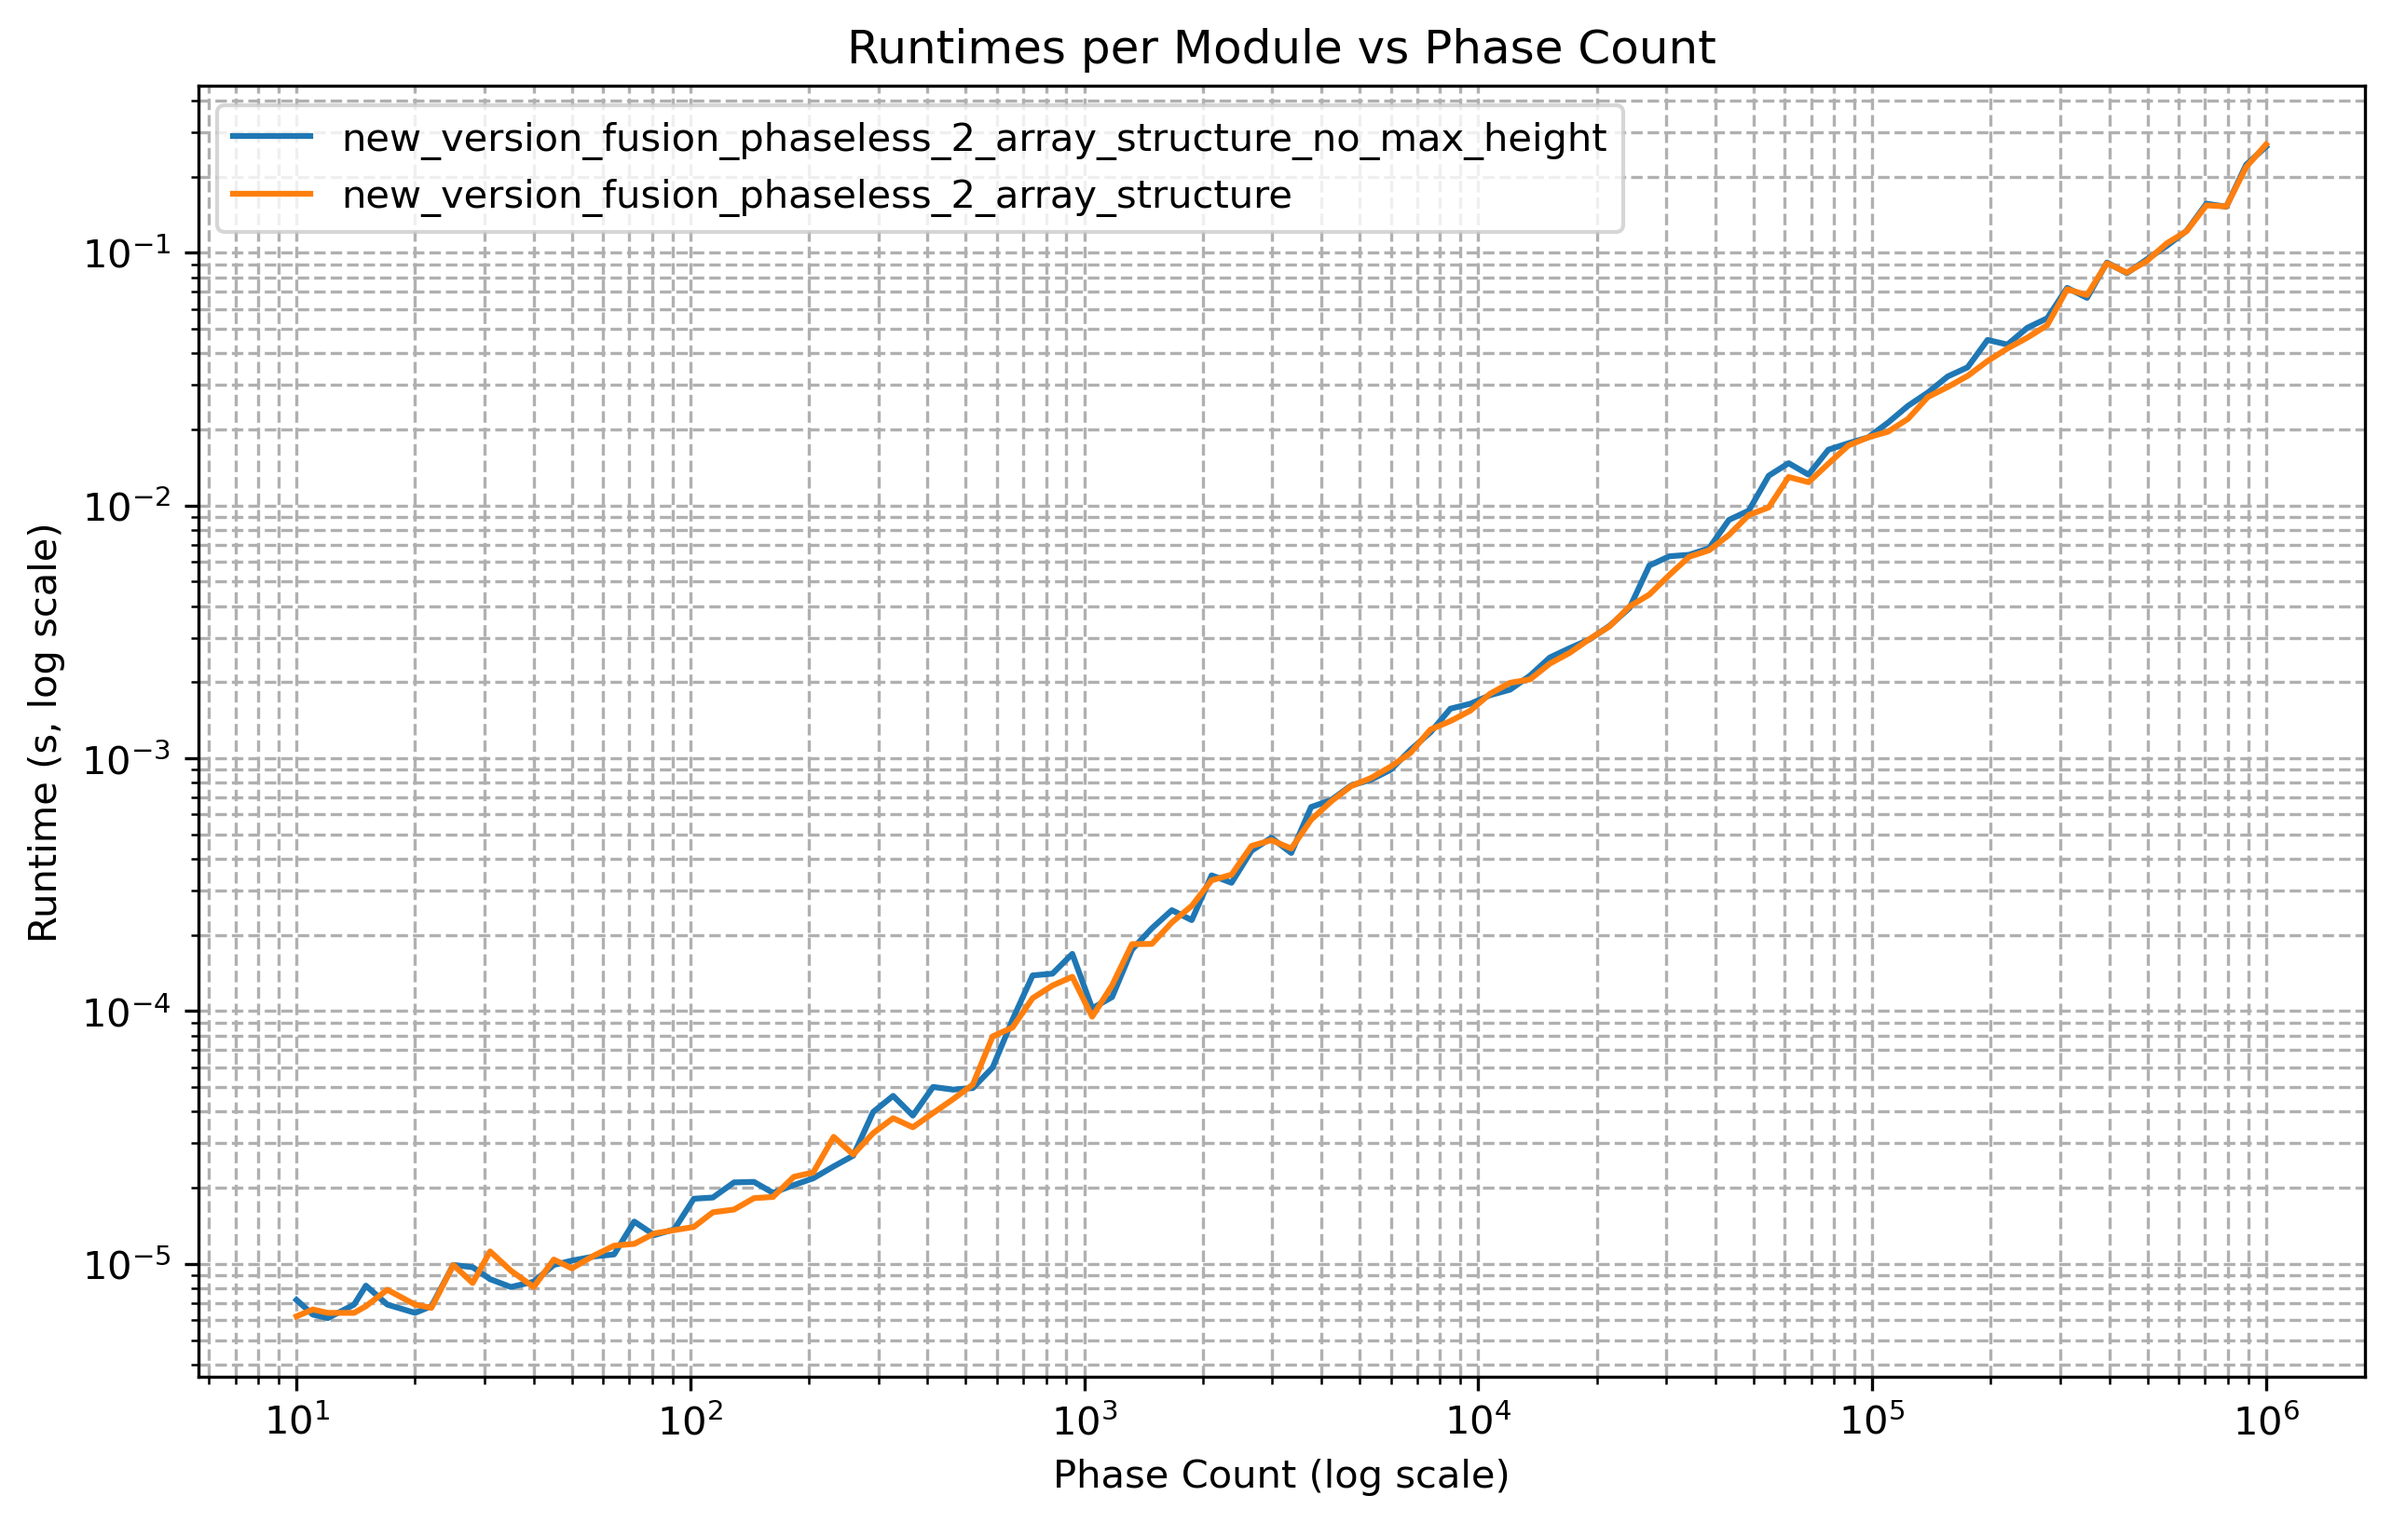
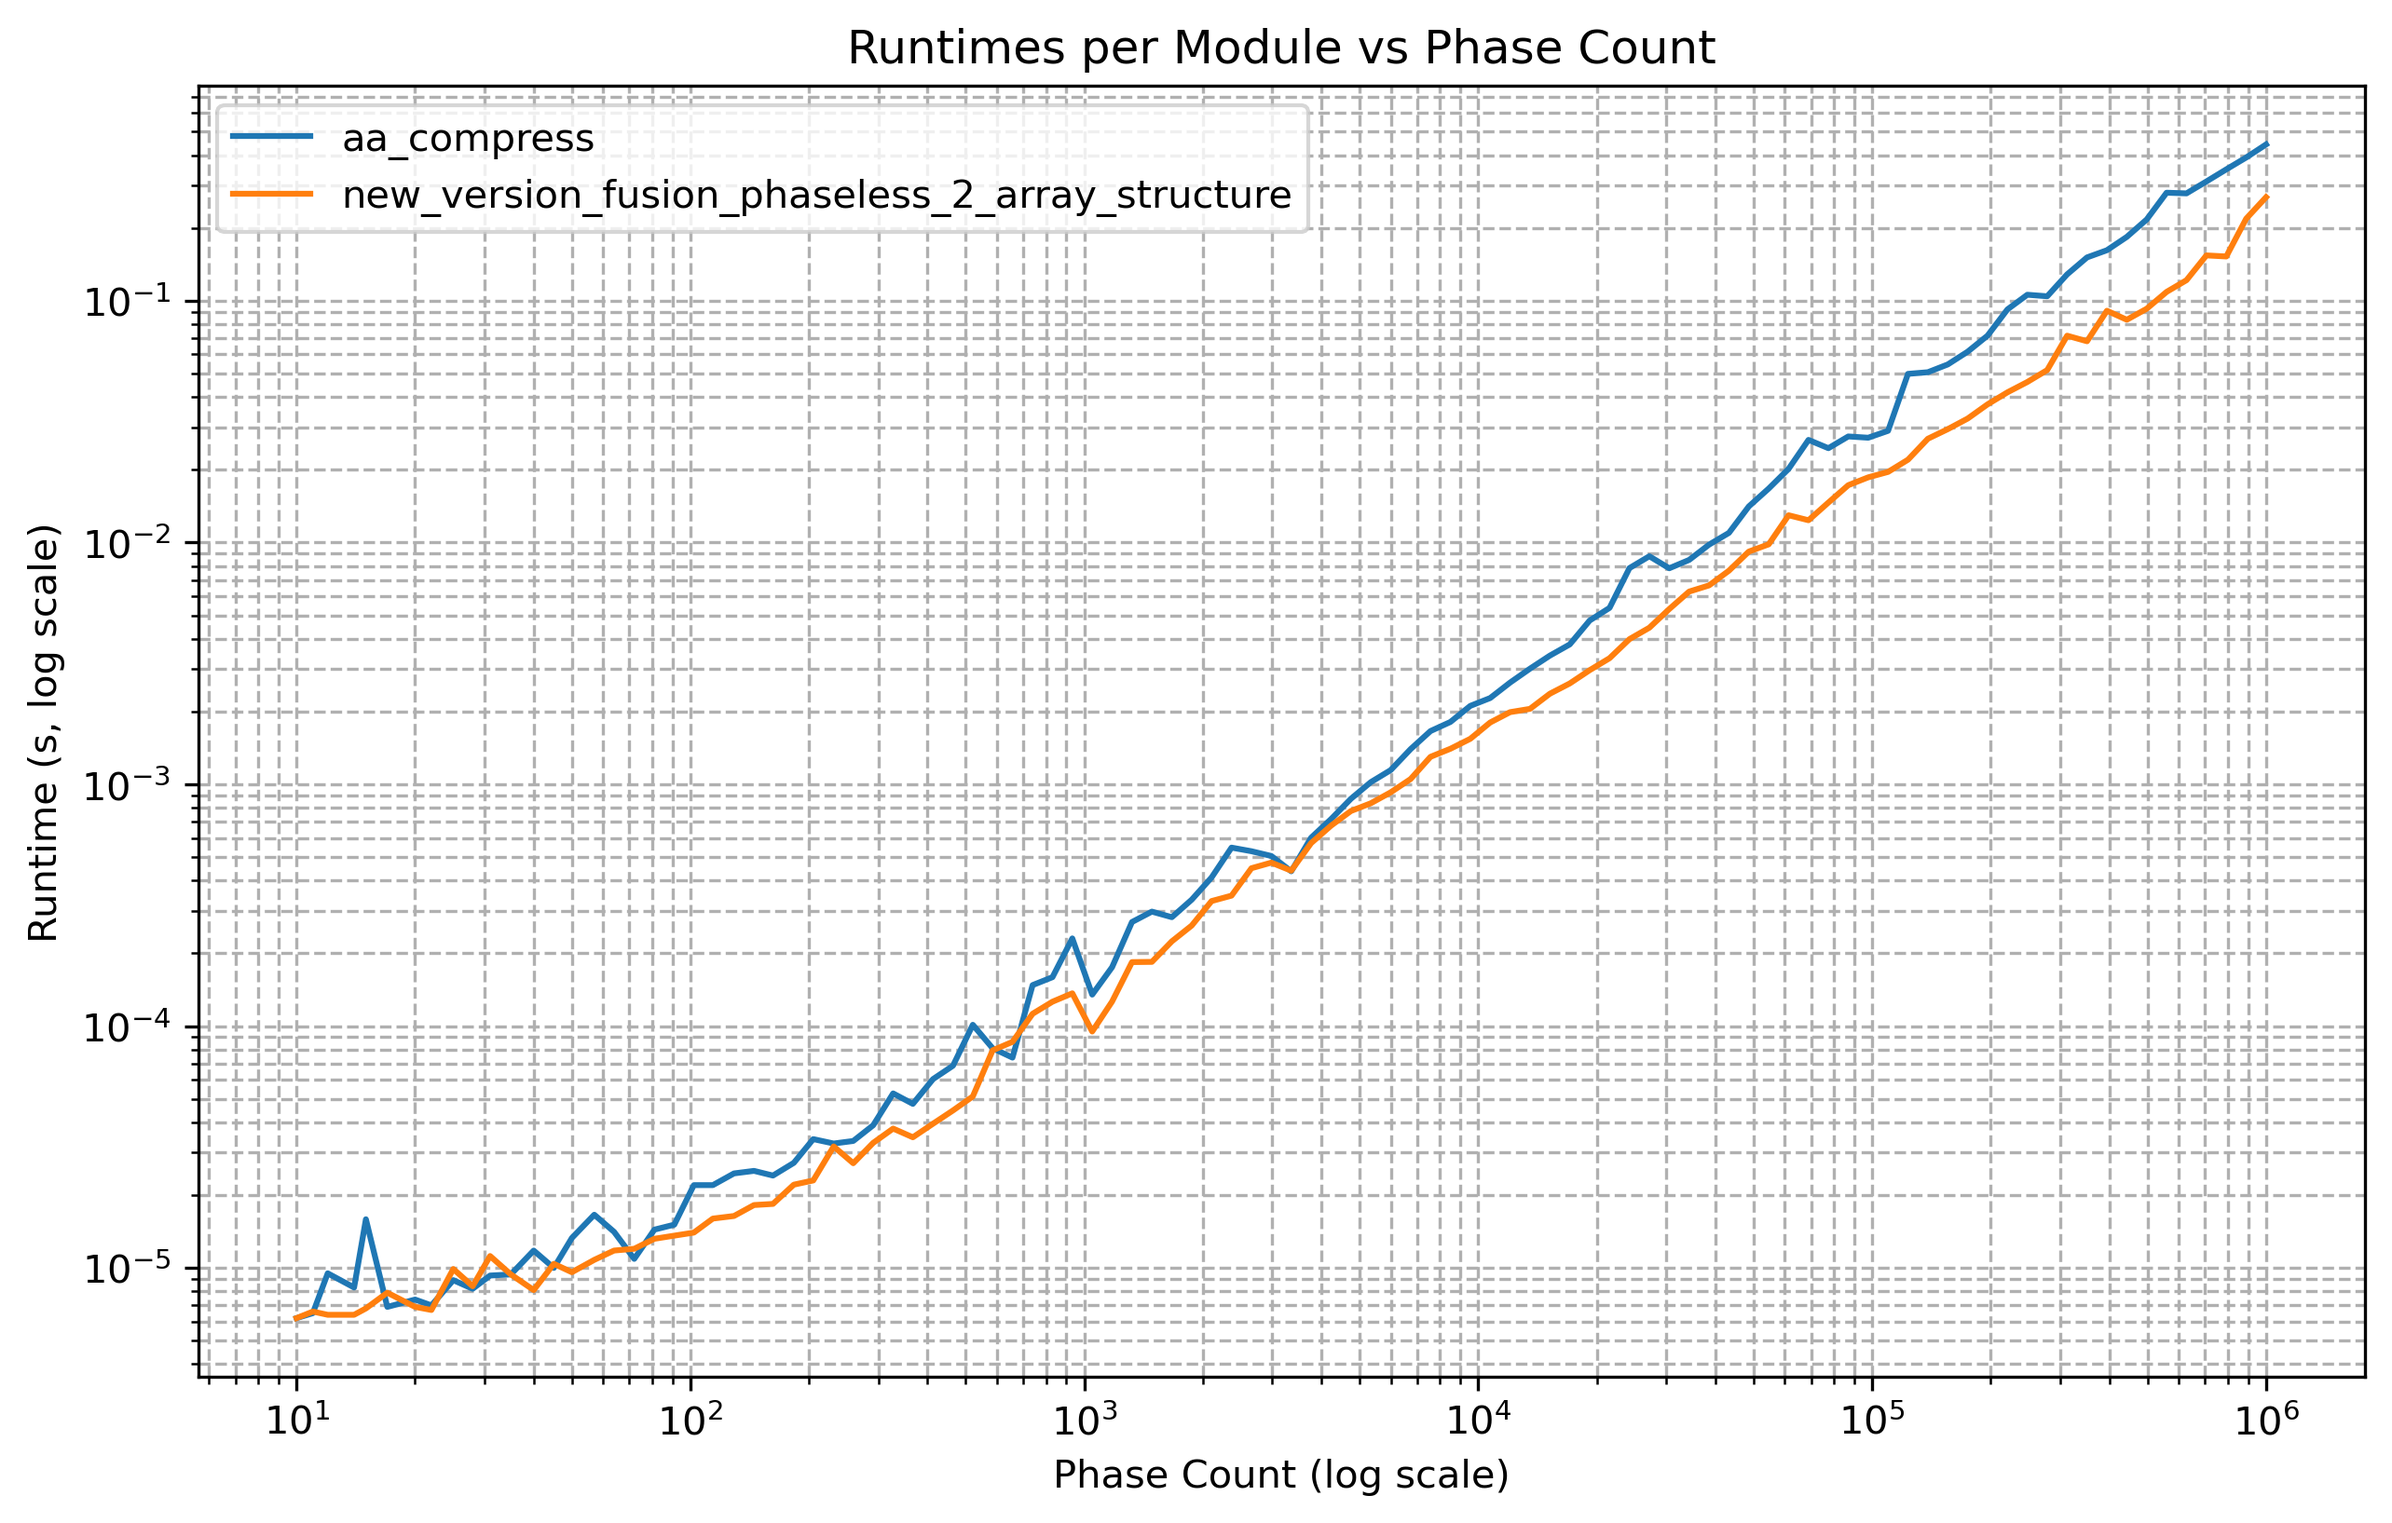
compression version

diff --git a/run.py b/run.py
@@ -17,10 +17,10 @@ if __name__ == '__main__':
 
     #compare_simulation_results("new_version_fusion_phaseless_2", "new_version_fusion_phaseless_2_parallel_no_resize", cfg)
 
-    #to_plot = ["new_version_fusion_phaseless_2_array_structure_no_max_height", "new_version_fusion_phaseless_2_array_structure"]
+    #to_plot = ["aa_compress", "new_version_fusion_phaseless_2_array_structure"]
     #plot_from_json(cfg, to_plot)
 
-    #log_log_linear_regression(cfg, "aa_compress", min_phase_count = 5000)
+    log_log_linear_regression(cfg, "aa_compress", min_phase_count = 5000)
 
     #submethod_analysis("new_version_fusion_phaseless_2_array_structure")
 
@@ -30,4 +30,4 @@ if __name__ == '__main__':
 
     #visualize_output_each_step(phase_count =  13)
 
-    visualize(cfg,"new_version_fusion_phaseless_2_array_structure" , phase=10, max_cols = 100, case = "average_case")
+    #visualize(cfg,"new_version_fusion_phaseless_2_array_structure" , phase=10, max_cols = 100, case = "average_case")
